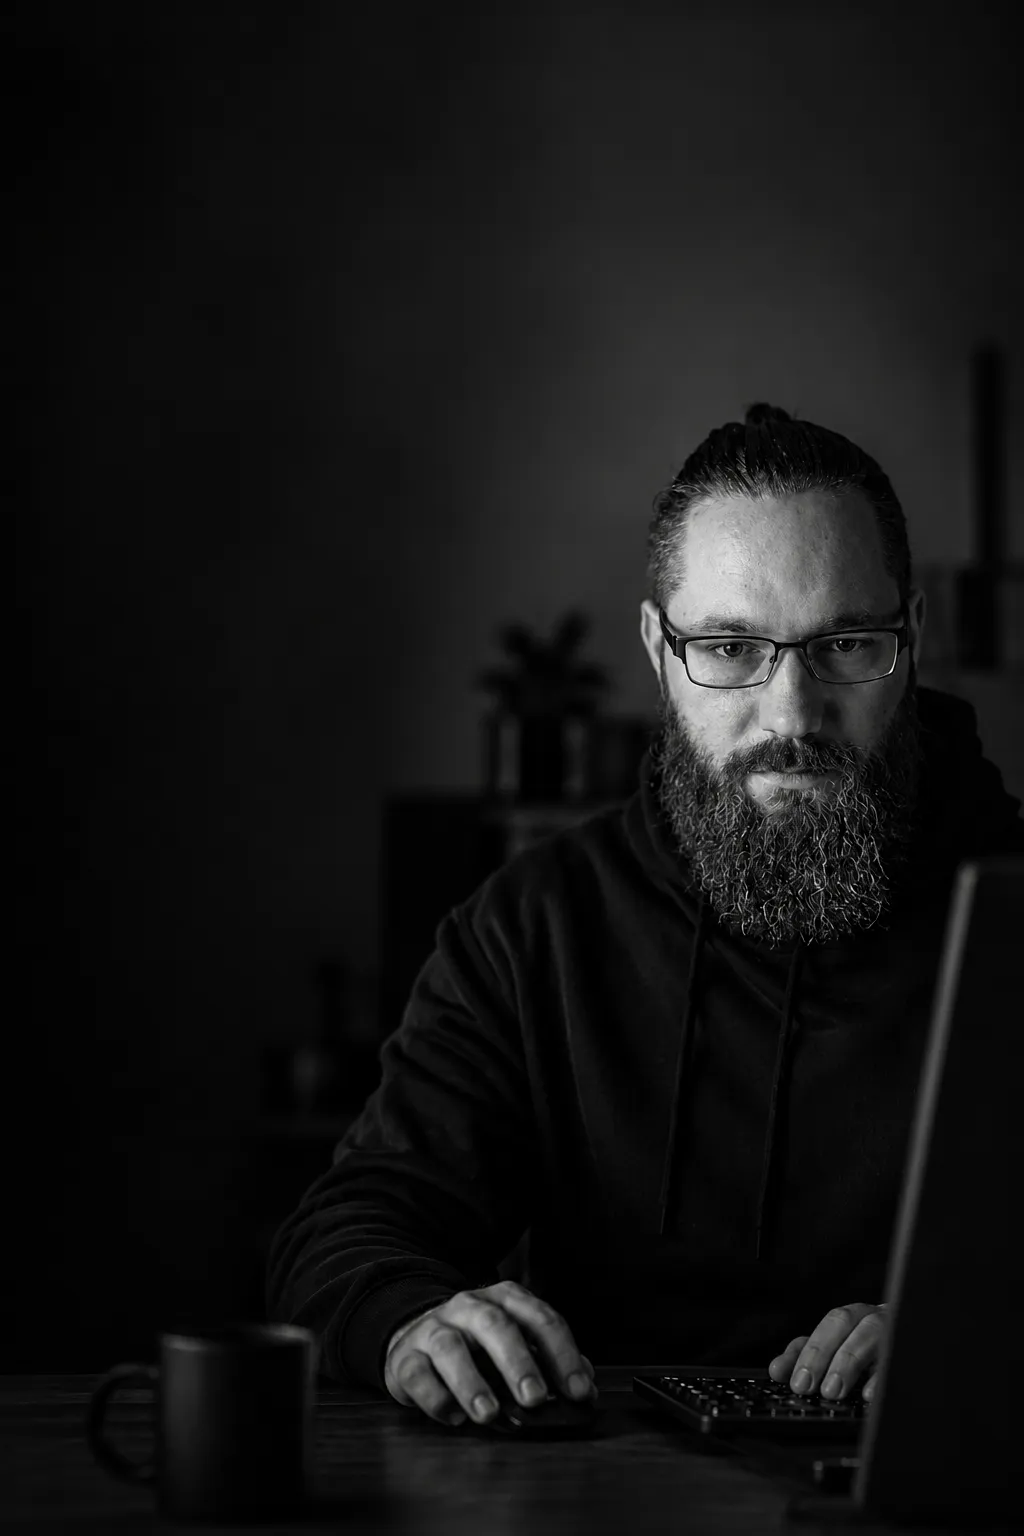
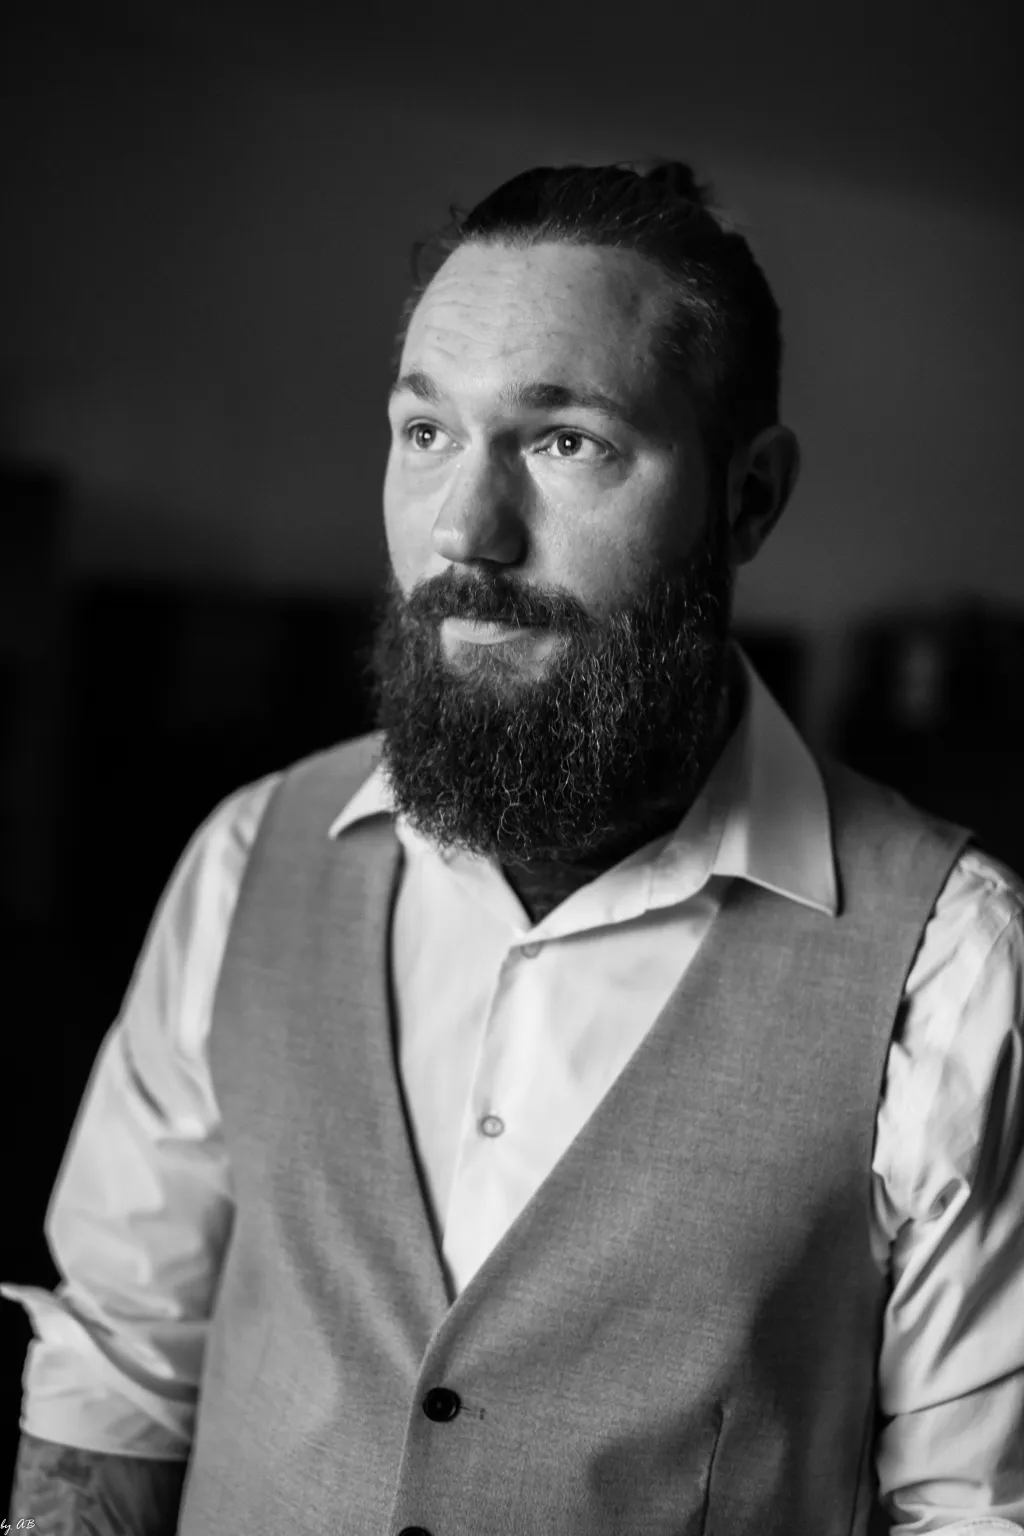
feat: replace hero image and keep it in portrait ratio on wide screens
- New black-and-white hero photo (WebP, 1024x1536)
- Hero image container keeps a 2:3 ratio (max 50% width), anchored to the top
- Updated portfolio project preview with the new hero

diff --git a/src/sections/Hero/Hero.tsx b/src/sections/Hero/Hero.tsx
@@ -7,13 +7,13 @@ export function Hero() {
       {/* Decorative background image – the name is already shown as text */}
       <div
         aria-hidden="true"
-        className="absolute inset-0 md:left-auto md:w-1/2"
+        className="absolute inset-0 md:left-auto md:w-auto md:max-w-[50%] md:aspect-[2/3]"
       >
         <img
           src={heroImage}
           alt=""
           fetchPriority="high"
-          className="size-full object-cover md:fade-from-left"
+          className="size-full object-cover object-top md:fade-from-left"
         />
         {/* Mobile: darken the image so the text stays readable */}
         <div className="absolute inset-0 bg-page/85 md:hidden" />
